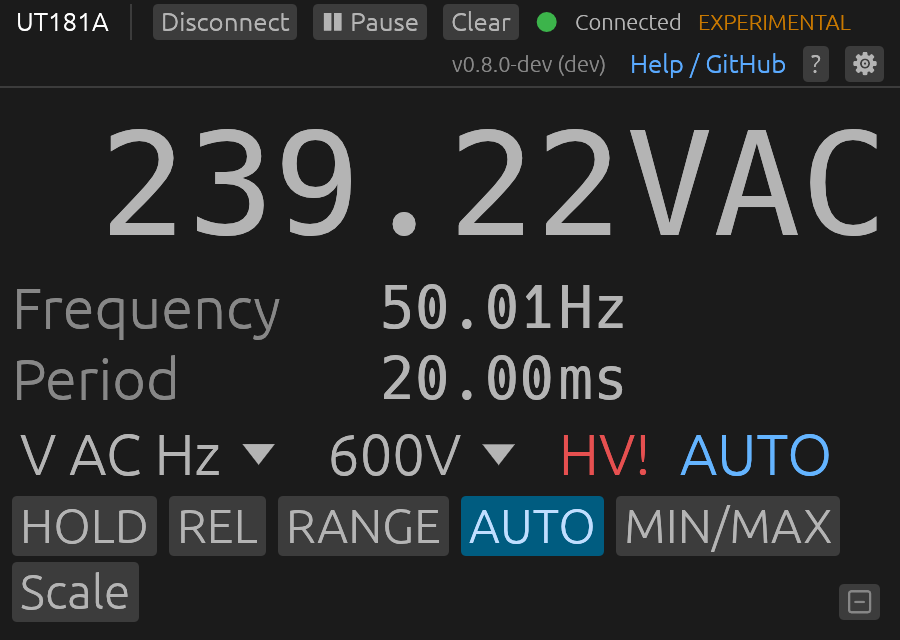
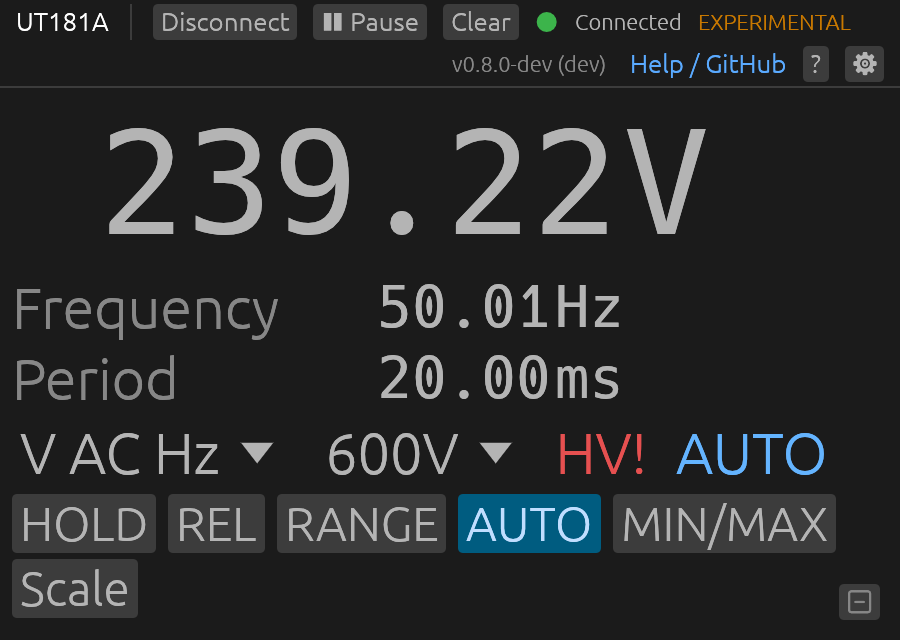
lib: report UT181A units the way other meters do
The UT181A was the one family passing its wire strings through: `~` for
ohms, `u` for micro and the coupling on every volt and amp unit. Scale
transforms could not split `k~` or `mVac+dc`, and AC+DC's parts sat in
different units. The mode word already names the coupling.

Adds the capture's REL, COMP, Peak, Ω OL and µA AC Hz frames as goldens.

diff --git a/crates/dmm-lib/src/protocol/ut181a/parse.rs b/crates/dmm-lib/src/protocol/ut181a/parse.rs
@@ -142,17 +142,40 @@ pub(super) fn decode_mode_word(mode: u16) -> Cow<'static, str> {
     }
 }
 
-/// Parse a UT181A unit string from 8 bytes (null-terminated).
+/// Parse a UT181A unit string from 8 bytes (null-terminated), in the form
+/// every other family reports units.
 ///
 /// The meter sends Latin-1, not UTF-8 (spec §8: 0xB0 = degree symbol),
 /// so decode byte-by-byte — `from_utf8_lossy` would mangle °C/°F into
-/// replacement characters.
+/// replacement characters. What it sends is then rewritten:
+///
+/// - `~` is its ohm sign: `k~` → `kΩ` (U+03A9, the sign `transform::si_prefix`
+///   splits);
+/// - a leading `u` is micro: `uF` → `µF`, `uADC` → `µA`;
+/// - volts and amps drop the coupling the mode word already names:
+///   `VDC`, `VAC` → `V`, `mVac+dc` → `mV`, `uAac+dc` → `µA`.
+///
+/// `°C`, `°F`, `Hz`, `ms`, `%`, `nS`, `dBV`, `dBm` and the diode's `V` pass
+/// through.
 fn parse_unit_string(bytes: &[u8]) -> String {
-    bytes
+    let wire: String = bytes
         .iter()
         .take_while(|&&b| b != 0)
         .map(|&b| b as char)
-        .collect()
+        .collect();
+    let unit = wire.replace('~', "\u{3a9}");
+    let unit = match unit.strip_prefix('u') {
+        Some(rest) if !rest.is_empty() => format!("\u{b5}{rest}"),
+        _ => unit,
+    };
+    for coupling in ["ac+dc", "DC", "AC"] {
+        if let Some(base) = unit.strip_suffix(coupling)
+            && matches!(base, "V" | "mV" | "A" | "mA" | "\u{b5}A")
+        {
+            return base.to_string();
+        }
+    }
+    unit
 }
 
 /// Labels for the two aux slots of a normal-format measurement.
@@ -285,12 +308,12 @@ pub(super) fn lookup_range_label(mode_word: u16, range: u8) -> &'static str {
         (0xA, _, _) => "",
 
         // Resistance (0x5, sub 0x1)
-        (0x5, 0x1, 1) => "600\u{2126}",
-        (0x5, 0x1, 2) => "6k\u{2126}",
-        (0x5, 0x1, 3) => "60k\u{2126}",
-        (0x5, 0x1, 4) => "600k\u{2126}",
-        (0x5, 0x1, 5) => "6M\u{2126}",
-        (0x5, 0x1, 6) => "60M\u{2126}",
+        (0x5, 0x1, 1) => "600\u{3a9}",
+        (0x5, 0x1, 2) => "6k\u{3a9}",
+        (0x5, 0x1, 3) => "60k\u{3a9}",
+        (0x5, 0x1, 4) => "600k\u{3a9}",
+        (0x5, 0x1, 5) => "6M\u{3a9}",
+        (0x5, 0x1, 6) => "60M\u{3a9}",
 
         // Continuity (0x5, sub 0x2), Conductance (0x5, sub 0x3): fixed range
         (0x5, _, _) => "",
@@ -761,7 +784,7 @@ pub(crate) mod tests {
 mode_raw=0x3111
 range_raw=0x00
 value=Normal(12.345000267028809)
-unit=VDC
+unit=V
 range_label=Auto
 display_raw=Some("12.3450")
 flags=auto_range
@@ -775,7 +798,7 @@ raw_payload=19"#
         let payload = make_payload(0x1111, 230.5, 0x20, b"VAC\0\0\0\0\0", 0x00, 0x00);
         let m = parse_measurement(&payload).unwrap();
         assert_eq!(m.mode, "V AC");
-        assert_eq!(m.unit, "VAC");
+        assert_eq!(m.unit, "V");
     }
 
     #[test]
@@ -783,7 +806,7 @@ raw_payload=19"#
         let payload = make_payload(0x5111, 470.0, 0x20, b"~\0\0\0\0\0\0\0", 0x00, 0x01);
         let m = parse_measurement(&payload).unwrap();
         assert_eq!(m.mode, "Ω");
-        assert_eq!(m.unit, "~");
+        assert_eq!(m.unit, "Ω");
     }
 
     /// Precision bit 0 = +OL, and an overload carries no digits of its own.
@@ -797,7 +820,7 @@ raw_payload=19"#
 mode_raw=0x5111
 range_raw=0x00
 value=Overload
-unit=~
+unit=Ω
 range_label=Auto
 display_raw=None
 flags=
@@ -855,6 +878,48 @@ raw_payload=19"#
         assert_eq!(decode_mode_word(0x4231), "°C T1-T2");
         assert_eq!(decode_mode_word(0x4241), "°C T2-T1");
         assert_eq!(decode_mode_word(0x4321), "°F T2");
+    }
+
+    /// Every unit string a real UT181A sent (@diego351, issue #5,
+    /// 2026-09-27), in the form the other families report.
+    #[test]
+    fn unit_strings_read_like_other_meters() {
+        for (wire, unit) in [
+            ("VDC", "V"),
+            ("VAC", "V"),
+            ("Vac+dc", "V"),
+            ("mVDC", "mV"),
+            ("mVAC", "mV"),
+            ("mVac+dc", "mV"),
+            ("uADC", "\u{b5}A"),
+            ("uAAC", "\u{b5}A"),
+            ("uAac+dc", "\u{b5}A"),
+            ("mADC", "mA"),
+            ("mAAC", "mA"),
+            ("mAac+dc", "mA"),
+            ("ADC", "A"),
+            ("AAC", "A"),
+            ("Aac+dc", "A"),
+            ("~", "\u{3a9}"),
+            ("k~", "k\u{3a9}"),
+            ("M~", "M\u{3a9}"),
+            ("nF", "nF"),
+            ("uF", "\u{b5}F"),
+            ("mF", "mF"),
+            ("nS", "nS"),
+            ("Hz", "Hz"),
+            ("kHz", "kHz"),
+            ("MHz", "MHz"),
+            ("ms", "ms"),
+            ("%", "%"),
+            ("dBV", "dBV"),
+            ("dBm", "dBm"),
+            ("V", "V"),
+        ] {
+            let mut bytes = [0u8; 8];
+            bytes[..wire.len()].copy_from_slice(wire.as_bytes());
+            assert_eq!(parse_unit_string(&bytes), unit, "wire {wire:?}");
+        }
     }
 
     #[test]
@@ -973,7 +1038,7 @@ raw_payload=32"#
 mode_raw=0x1121
 range_raw=0x03
 value=Normal(239.22000122070313)
-unit=VAC
+unit=V
 range_label=600V
 display_raw=Some("239.22")
 flags=auto_range,hv_warning
@@ -1000,7 +1065,7 @@ raw_payload=57"#
 mode_raw=0x5111
 range_raw=0x00
 value=Overload
-unit=~
+unit=Ω
 range_label=Auto
 display_raw=None
 flags=
@@ -1072,9 +1137,9 @@ raw_payload=19"#
 
     #[test]
     fn range_label_resistance() {
-        assert_eq!(lookup_range_label(0x5111, 1), "600\u{2126}");
-        assert_eq!(lookup_range_label(0x5111, 3), "60k\u{2126}");
-        assert_eq!(lookup_range_label(0x5111, 6), "60M\u{2126}");
+        assert_eq!(lookup_range_label(0x5111, 1), "600\u{3a9}");
+        assert_eq!(lookup_range_label(0x5111, 3), "60k\u{3a9}");
+        assert_eq!(lookup_range_label(0x5111, 6), "60M\u{3a9}");
     }
 
     #[test]
@@ -1166,14 +1231,14 @@ raw_payload=19"#
 mode_raw=0x3112
 range_raw=0x00
 value=Normal(2.3450000286102295)
-unit=VDC
+unit=V
 range_label=Auto
 display_raw=Some("2.345")
 main_label=Relative
 flags=rel,auto_range
 aux=2
-aux1=Reference value=Normal(10.0) unit=VDC display_raw=Some("10.000") elapsed_secs=None
-aux2=Absolute value=Normal(12.345000267028809) unit=VDC display_raw=Some("12.345") elapsed_secs=None
+aux1=Reference value=Normal(10.0) unit=V display_raw=Some("10.000") elapsed_secs=None
+aux2=Absolute value=Normal(12.345000267028809) unit=V display_raw=Some("12.345") elapsed_secs=None
 raw_payload=45"#
         );
     }
@@ -1226,14 +1291,14 @@ raw_payload=45"#
 mode_raw=0x3111
 range_raw=0x00
 value=Normal(5.0)
-unit=VDC
+unit=V
 range_label=Auto
 display_raw=Some("5.000")
 flags=auto_range,min,max
 aux=3
-aux1=Max value=Normal(10.0) unit=VDC display_raw=Some("10.000") elapsed_secs=Some(120)
-aux2=Average value=Normal(7.5) unit=VDC display_raw=Some("7.500") elapsed_secs=Some(60)
-aux3=Min value=Normal(3.0) unit=VDC display_raw=Some("3.000") elapsed_secs=Some(30)
+aux1=Max value=Normal(10.0) unit=V display_raw=Some("10.000") elapsed_secs=Some(120)
+aux2=Average value=Normal(7.5) unit=V display_raw=Some("7.500") elapsed_secs=Some(60)
+aux3=Min value=Normal(3.0) unit=V display_raw=Some("3.000") elapsed_secs=Some(30)
 raw_payload=46"#
         );
     }
@@ -1268,13 +1333,13 @@ raw_payload=46"#
 mode_raw=0x3131
 range_raw=0x00
 value=Normal(15.0)
-unit=VDC
+unit=V
 range_label=Auto
 display_raw=Some("15.000")
 main_label=Peak Max
 flags=auto_range,peak_max,peak_min
 aux=1
-aux1=Peak Min value=Normal(-3.0) unit=VDC display_raw=Some("-3.000") elapsed_secs=None
+aux1=Peak Min value=Normal(-3.0) unit=V display_raw=Some("-3.000") elapsed_secs=None
 raw_payload=32"#
         );
     }
@@ -1336,13 +1401,13 @@ raw_payload=32"#
 mode_raw=0x3111
 range_raw=0x00
 value=Normal(5.0)
-unit=VDC
+unit=V
 range_label=Auto
 display_raw=Some("5.000")
 flags=auto_range,comp
 aux=2
-aux1=COMP High value=Normal(10.0) unit=VDC display_raw=Some("10") elapsed_secs=None
-aux2=COMP Low value=Normal(1.0) unit=VDC display_raw=Some("1") elapsed_secs=None
+aux1=COMP High value=Normal(10.0) unit=V display_raw=Some("10") elapsed_secs=None
+aux2=COMP Low value=Normal(1.0) unit=V display_raw=Some("1") elapsed_secs=None
 raw_payload=30"#
         );
     }

diff --git a/crates/dmm-lib/src/transform.rs b/crates/dmm-lib/src/transform.rs
@@ -43,9 +43,7 @@ const SI_PREFIXES: &[(char, f64)] = &[
 /// so a unit that merely starts with a prefix letter is left alone: "ms" is
 /// milliseconds, not milli-seconds ("s" is not a base here), and "°C", "°F",
 /// "%", "dBm" and "dBV" carry no prefix at all.
-const BASE_UNITS: &[&str] = &[
-    "V", "A", "Ω", "F", "Hz", "S", "W", "VA", "VAC", "VDC", "AAC", "ADC",
-];
+const BASE_UNITS: &[&str] = &["V", "A", "Ω", "F", "Hz", "S", "W", "VA"];
 
 /// Split a meter unit into its base unit and the multiplier to that base:
 /// "mV" → ("V", 1e-3), "kΩ" → ("Ω", 1e3), "µA" → ("A", 1e-6).
@@ -862,8 +860,6 @@ mod tests {
             ("kHz", "Hz", 1e3),
             ("MHz", "Hz", 1e6),
             ("nS", "S", 1e-9),
-            ("VAC", "VAC", 1.0),
-            ("VDC", "VDC", 1.0),
             ("VA", "VA", 1.0),
             ("mVA", "VA", 1e-3),
             ("µVA", "VA", 1e-6),

diff --git a/crates/dmm-lib/src/protocol/ut181a/specs.rs b/crates/dmm-lib/src/protocol/ut181a/specs.rs
@@ -1502,7 +1502,7 @@ mod tests {
             }
             assert_eq!(
                 row.label,
-                lookup_range_label(word, range).replace('\u{2126}', "\u{3a9}"),
+                lookup_range_label(word, range),
                 "{word:#06x} range {range}"
             );
         }

diff --git a/docs/architecture.md b/docs/architecture.md
@@ -44,7 +44,7 @@ The library crate handles all device communication and data parsing. It has no U
 | `protocol/ut8803/` | UT8803 family: `Ut8803Protocol` — streaming, read-only; `frame.rs` finds frames in the stream |
 | `protocol/ut80x/` | UT803/UT804, and the UT71A–E and Voltcraft VC920/VC940/VC960 that send the UT804's packets: `Ut80xProtocol` — streaming over the CH9325 cable, one payload parser per bench model, the handhelds reusing the UT804's over their own range labels; `specs_ut803.rs`/`specs_ut804.rs` hold the spec tables |
 | `protocol/ut171/` | UT171 family: `Ut171Protocol` — streaming once the user turns communication on at the meter |
-| `protocol/ut181a/` | UT181A: `Ut181aProtocol` in `mod.rs` (streaming driver, device-sent unit strings); `parse.rs` decodes the normal, REL, MIN/MAX, Peak and COMP payloads, `command.rs` builds the AB CD command frames and reads the OK/ER reply, `mode.rs` holds the dial families SET_MODE and SET_RANGE move within |
+| `protocol/ut181a/` | UT181A: `Ut181aProtocol` in `mod.rs` (streaming driver); `parse.rs` decodes the normal, REL, MIN/MAX, Peak and COMP payloads and rewrites the meter's unit strings into the common form, `command.rs` builds the AB CD command frames and reads the OK/ER reply, `mode.rs` holds the dial families SET_MODE and SET_RANGE move within |
 | `protocol/vc8x0/` | Voltcraft VC-880/VC650BT and VC-890: `Vc8x0Protocol<M>` in `mod.rs` implements `Protocol` and `CycleMeter` once over a `Vc8x0Model`; `vc880.rs` (streaming) and `vc890.rs` (polled) hold each family's tables, dial, frame layout and the drain or ack around its I/O, and name the driver over their model `Vc880Protocol` / `Vc890Protocol` |
 | `protocol/zotek/` | ZOTEK Bluetooth meters (ZOYI, BSIDE, ANENG): `ZotekProtocol` — streaming, one registry entry per packet layout, every packet decoded by its own layout; `frame.rs` finds and descrambles packets in the notification stream, `glyph.rs` reads the seven-segment digits and the words spelled in them, `layout.rs` holds each layout's annunciator table and builds the reading from what is lit, `keys.rs` the remote keys each layout offers and their frames, sent without waiting for a reply (a key whose code follows the display uses the last packet decoded, reading one first if none has arrived), `capture.rs` the capture steps per layout, `sim.rs` the simulated ZT-5B behind `--device mock-zt5b` |
 | `protocol/eevblog121gw/` | EEVblog 121GW: `Eevblog121gwProtocol` in `mod.rs` — streaming, listen-only init, remote keys written without waiting for a reply; `packet.rs` finds packets in the byte stream, `tables.rs` holds the mode and range tables, `decode.rs` builds the reading and its sub-values, `capture.rs` the capture steps |

diff --git a/docs/ux-design.md b/docs/ux-design.md
@@ -213,7 +213,7 @@ Three components stacked vertically:
 - In browse mode (click LIVE to toggle, or click minimap): drag to pan X, Ctrl + scroll wheel (or pinch) over the plot to zoom X (centered on cursor). Y auto-scales to visible data.
 - Dragging or Ctrl + scroll wheel while in LIVE mode exits to browse mode; the plain wheel scrolls the panel and leaves the graph alone
 - Double-click to return to LIVE mode
-- Sub-values sharing the plotted series' unit are drawn as extra dashed/dotted lines (up to four). Different-unit sub-values (Hz, ms beside VAC) are never overlaid — a shared axis would imply a relationship that isn't there — and stay reachable through the **Plot:** selector. Line style, not just colour, distinguishes them.
+- Sub-values sharing the plotted series' unit are drawn as extra dashed/dotted lines (up to four). Different-unit sub-values (Hz, ms beside V AC) are never overlaid — a shared axis would imply a relationship that isn't there — and stay reachable through the **Plot:** selector. Line style, not just colour, distinguishes them.
 - A static key in the plot's top-left names each drawn line with its colour and dash pattern, painted only while something is overlaid. It is a key, not a control: `Plot::reset()` pins the view every frame and clears egui_plot's own legend state, so the show/hide affordance is the toolbar's **Show:** chips instead.
 - Cursors, Mean/Min/Max/Ref, the minimap and the visible-window stats all follow the plotted series; overlays are reference traces only
 - Disconnect gaps shown as dashed red vertical line pairs

diff --git a/docs/verification-backlog.md b/docs/verification-backlog.md
@@ -1354,9 +1354,12 @@ open items below are closed.
     reading, shown `----` until the LCD's own rendering is known. It
     shows after every switch, so range sub-steps sample only blanks and
     the REL sweep, which skips an OL reading, never runs after one.
-  - Unit strings pass through raw (`~`, `k~`, `M~`, `uF`, `VDC`,
+  - ~~Unit strings pass through raw (`~`, `k~`, `M~`, `uF`, `VDC`,
     `mVac+dc`), unlike every other family, and `transform::si_prefix`
-    cannot split `~` or `…ac+dc`.
+    cannot split `~` or `…ac+dc`~~ — **FIXED** 2026-09-27: the parser
+    reports `Ω`, `µ` and bare `V`/`A`, the mode naming the coupling. The Ω
+    range labels changed code point with it (U+2126 → U+03A9), so a
+    capture resumed onto a v0.7.0 report sweeps the Ω rungs again.
   - AC+DC, dBV, dBm and the T1-T2/T2-T1 sub-values keep positional
     Aux1/Aux2 labels and are reported as unrecognised, and so is misc bit
     0 on every min/max frame.

diff --git a/docs/cli-reference.md b/docs/cli-reference.md
@@ -208,9 +208,9 @@ dmm-cli read --format csv --count 1
 $ dmm-cli read --format csv --count 1
 # device: UNI-T UT181A
 timestamp,mode,value,unit,range,flags,aux1_label,aux1_value,aux1_unit,aux2_label,aux2_value,aux2_unit,aux3_label,aux3_value,aux3_unit,aux4_label,aux4_value,aux4_unit
-2026-09-02T00:00:00+00:00,V AC Hz,239.22,VAC,600V,AUTO HV!,Frequency,50.01,Hz,Period,20.00,ms,,,,,,
+2026-09-02T00:00:00+00:00,V AC Hz,239.22,V,600V,AUTO HV!,Frequency,50.01,Hz,Period,20.00,ms,,,,,,
 
---- 1 samples | Min: 239.2200 VAC | Max: 239.2200 VAC | Avg: 239.2200 VAC
+--- 1 samples | Min: 239.2200 V | Max: 239.2200 V | Avg: 239.2200 V
 ```
 <!-- /snippet -->
 

diff --git a/CHANGELOG.md b/CHANGELOG.md
@@ -31,6 +31,7 @@
 
 - **UT61E+ AC+DC V keeps its DC and AC components apart** — the graph, statistics and exports mixed them; now labelled DC and AC, with AC in `aux1` CSV columns every UT61E+ export gains.
 - **A UT181A no longer shows OL, or warns, after each switch** — it shows `----` until the new reading arrives.
+- **A UT181A shows Ω, kΩ, MΩ and µ like other meters** — it showed ~, k~, M~ and u, and volts and amps carried AC/DC suffixes.
 
 ## v0.7.0 — Auto-Detection, Meter Control and Newly Verified Models
 
